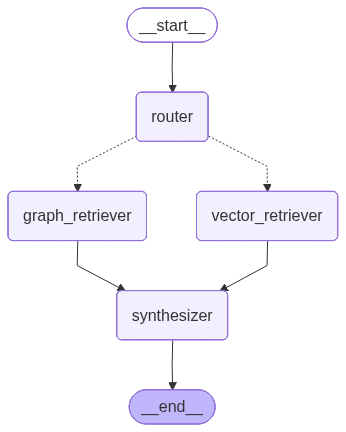
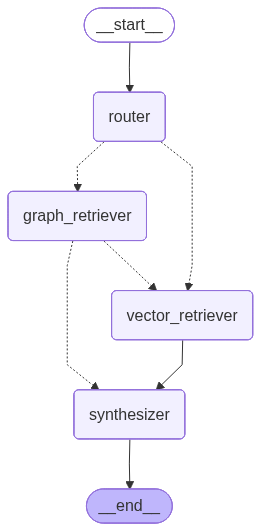
added fallback for graph retriever

diff --git a/workflows/hybrid_w_router.py b/workflows/hybrid_w_router.py
@@ -4,6 +4,7 @@ from nodes.graph_retriever_chain import GraphRetrieverChain
 from nodes.vector_retriever import VectorRetriever
 from nodes.synthesizer import synthesizer
 from nodes.router import Router, route_decision
+from nodes.fallback_to_vector import fallback_to_vector
 
 graph_retriever_chain = GraphRetrieverChain()
 vector_retriever = VectorRetriever()
@@ -22,10 +23,15 @@ graph.add_edge(START, "router")
 graph.add_conditional_edges(
     "router",
     route_decision,
-    ["graph_retriever", "vector_retriever"],  # flat list of all reachable nodes
+    ["graph_retriever", "vector_retriever"], 
 )
 
-graph.add_edge("graph_retriever", "synthesizer")
+# After graph_retriever: conditionally fall back to vector if graph returned empty
+graph.add_conditional_edges(
+    "graph_retriever",
+    fallback_to_vector,
+    ["vector_retriever", "synthesizer"],
+)
 graph.add_edge("vector_retriever", "synthesizer")
 graph.add_edge("synthesizer", END)
 
@@ -44,7 +50,7 @@ if __name__ == "__main__":
     os.startfile(os.path.abspath(png_path))   # opens with default image viewer on Windows
 
     # ── Run ──────────────────────────────────────────────────────────────
-    question = "What routine check-ups should patients with Type 2 Diabetes do?"
+    question = "What are the insulin dosages for people with Type 1 Diabetes"
     print(f"\n{'='*60}")
     print(f"Question : {question}")
     print(f"{'='*60}")

diff --git a/nodes/graph_retriever_chain.py b/nodes/graph_retriever_chain.py
@@ -3,6 +3,7 @@ from dotenv import load_dotenv
 from langchain_neo4j import Neo4jGraph, GraphCypherQAChain
 from config.settings import translator_llm
 from config.prompts import cypher_chain_generation_prompt, cypher_chain_qa_prompt
+from config.output_validation import GRAPH_EMPTY
 
 load_dotenv()
 
@@ -27,15 +28,24 @@ class GraphRetrieverChain:
         )
 
     def graph_retriever_node(self, state):
-        """LangGraph node: runs the full QA chain and stores the answer as graph_result."""
+        """LangGraph node. Returns GRAPH_EMPTY sentinel if the graph context was empty."""
         question = state["question"]
         try:
             result = self.chain.invoke({"query": question})
-            graph_result = result.get("result", "No result returned from graph.")
+
+            # intermediate_steps: [{'query': cypher}, {'context': [...rows...]}]
+            steps = result.get("intermediate_steps", [])
+            context = steps[1].get("context", []) if len(steps) > 1 else []
+
+            if not context:
+                print("[graph_retriever] Empty context — returning GRAPH_EMPTY sentinel.")
+                return {"graph_result": GRAPH_EMPTY}
+
+            return {"graph_result": result.get("result", "")}
+
         except Exception as e:
             print(f"GraphCypherQAChain error: {e}")
-            graph_result = ""
-        return {"graph_result": graph_result}
+            return {"graph_result": GRAPH_EMPTY}
 
 
 if __name__ == "__main__":

diff --git a/nodes/fallback_to_vector.py b/nodes/fallback_to_vector.py
@@ -1,0 +1,30 @@
+
+
+from config.output_validation import GRAPH_EMPTY
+
+
+def fallback_to_vector(state):
+    """
+    Conditional edge after graph_retriever.
+    Routes to synthesizer if graph returned data, or triggers fallback if not.
+
+    - graph_result has real data     → synthesizer
+    - graph_result is GRAPH_EMPTY sentinel AND router was 'graph' only
+                                     → vector_retriever (fallback)
+    - graph_result is GRAPH_EMPTY sentinel AND router was 'both'
+                                     → synthesizer (vector already ran in parallel)
+    """
+    graph_result  = state.get("graph_result", GRAPH_EMPTY)
+    router_choice = state.get("router_choice", "graph")
+
+    if graph_result and graph_result != GRAPH_EMPTY:
+        return "synthesizer"
+
+    # graph is empty / sentinel
+    if router_choice == "graph":
+        print("[fallback] Graph empty — falling back to vector retriever.")
+        return "vector_retriever"
+    else:
+        print("[fallback] Graph empty — relying on vector retriever results.")
+        return "synthesizer"
+    

diff --git a/config/output_validation.py b/config/output_validation.py
@@ -1,8 +1,12 @@
 from pydantic import BaseModel, Field
 from typing import Literal
 
+# Sentinel returned by graph_retriever when the graph context is empty
+GRAPH_EMPTY = "##NO_GRAPH_RESULT##"
+
 # Structured Output Schema for Router in Workflow
 class RouterOutput(BaseModel):
     router_choice: Literal["graph", "vector", "both"] = Field(description="Router LLM's decision on which retriever to use based on the question")
     router_reasoning: str = Field(description="Router LLM's reasoning for its retriever choice")
+
 

diff --git a/config/settings.py b/config/settings.py
@@ -47,6 +47,6 @@ router_llm = router_llm.with_structured_output(RouterOutput)
 
 #Final Response Generation LLM
 response_llm = ChatGroq(groq_api_key=groq_api_key, 
-                          model_name="openai/gpt-oss-20b", 
+                          model_name="llama-3.1-8b-instant", 
                           temperature=0)
 
